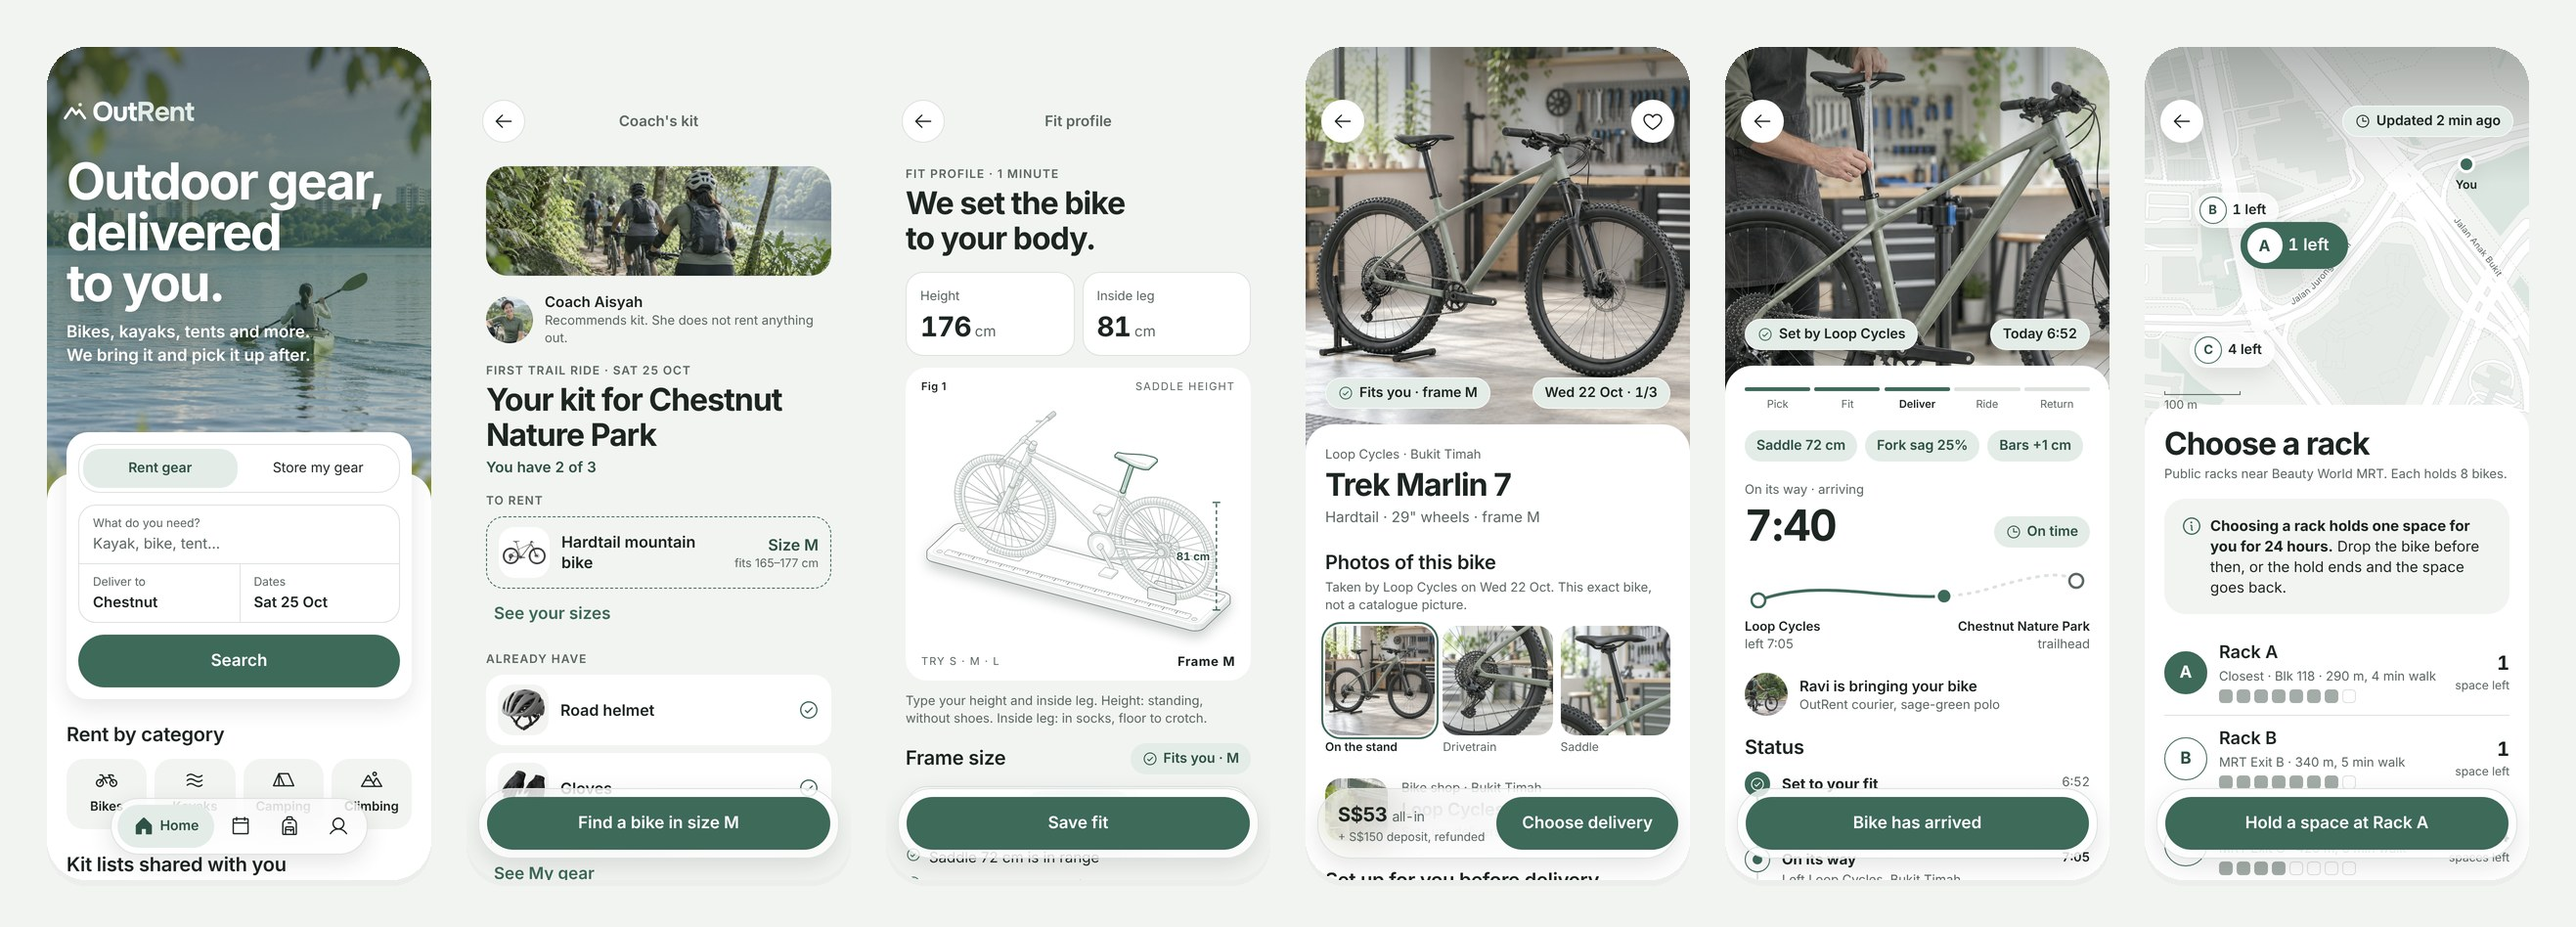
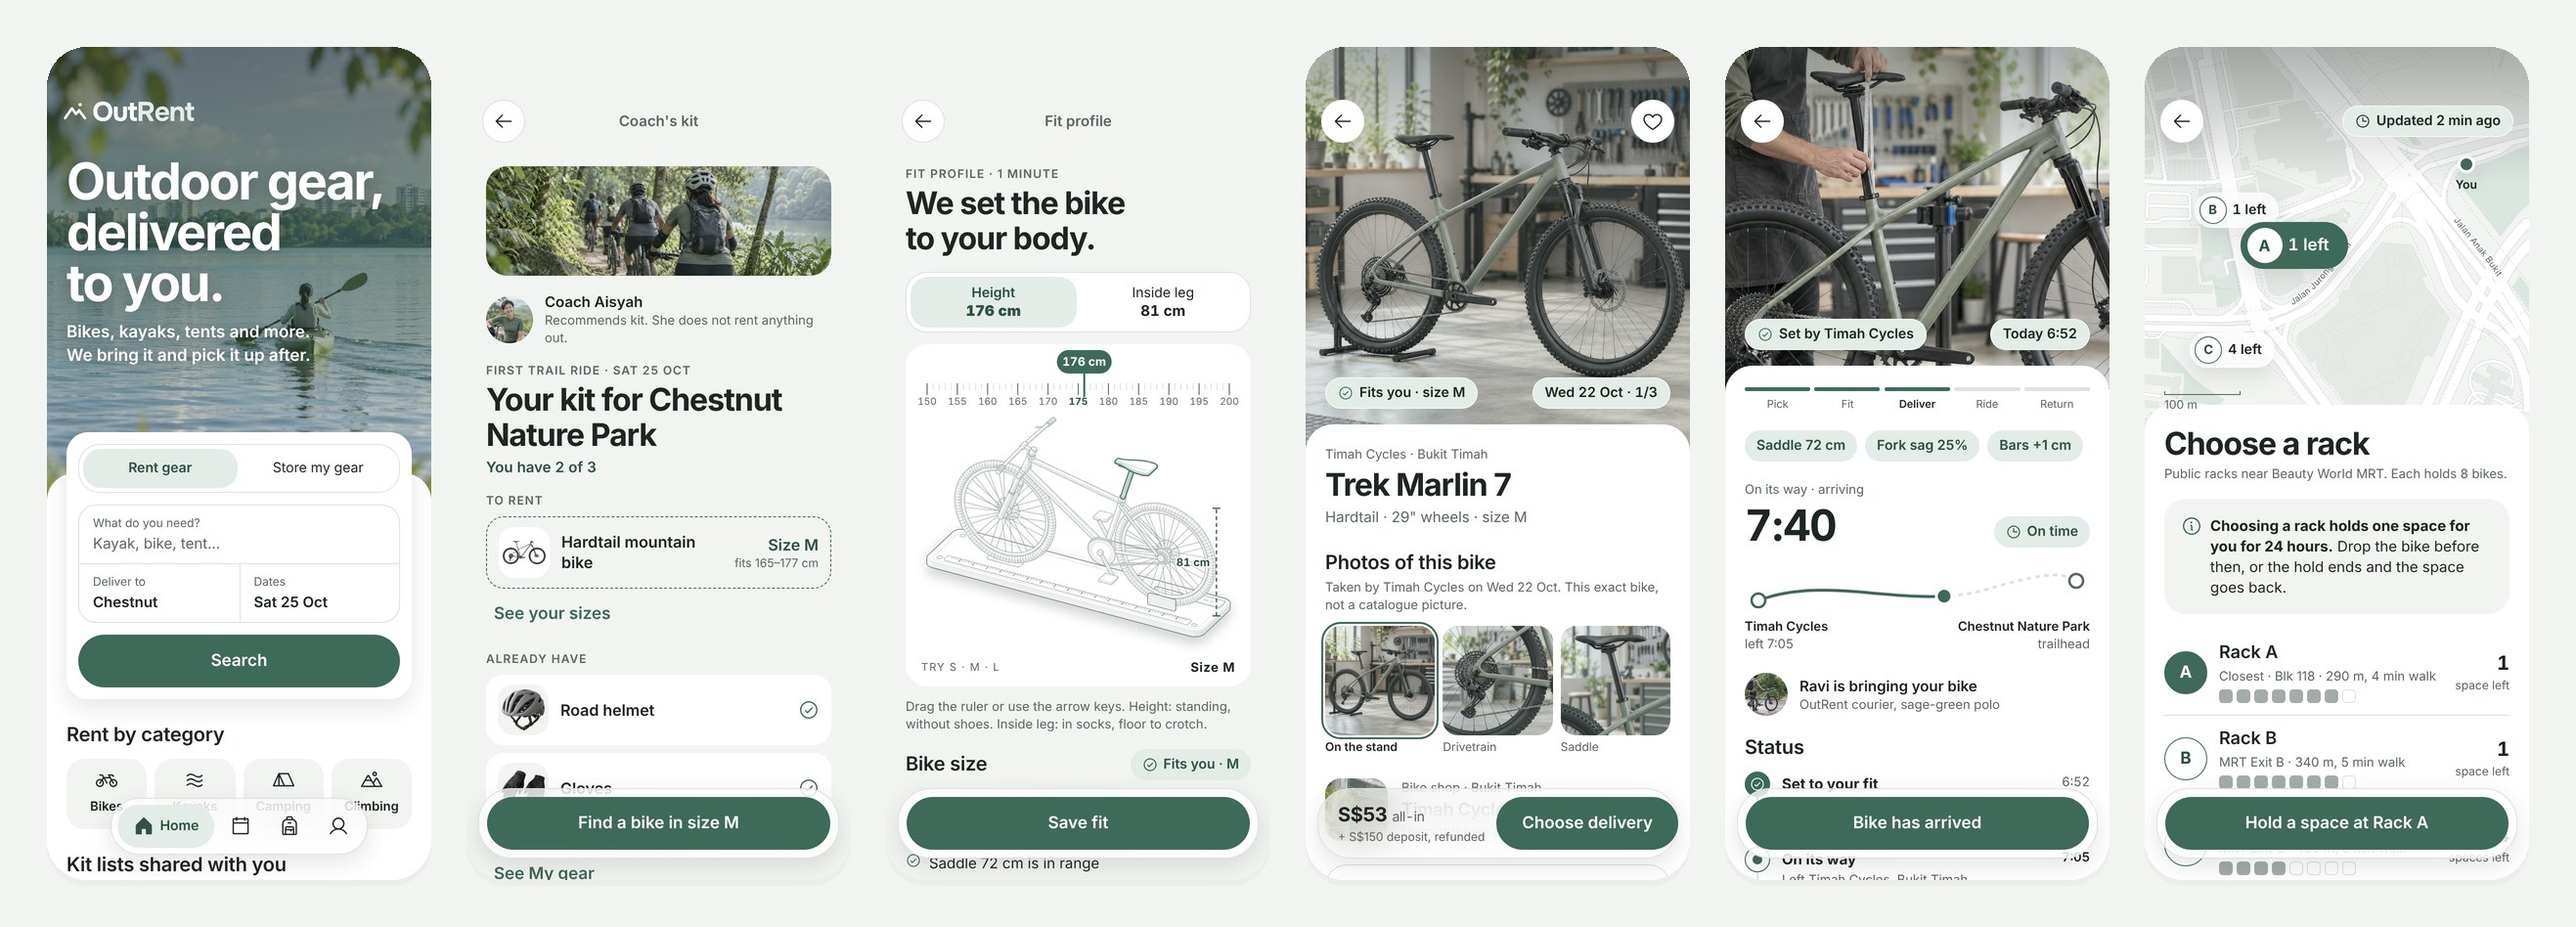
Lead pages: say size, not frame; drop unused ScrollTrigger; refresh README screens

diff --git a/work/haoyue/_shared/fit-page.js b/work/haoyue/_shared/fit-page.js
@@ -53,10 +53,10 @@
         </div>
         <div class="group">
           <div class="head">
-            <h2 class="t-title">Frame size</h2>
+            <h2 class="t-title">Bike size</h2>
             <span class="chip" id="size-chip" aria-live="polite"></span>
           </div>
-          <div class="segmented" role="radiogroup" aria-label="Try a frame size" id="size">
+          <div class="segmented" role="radiogroup" aria-label="Try a bike size" id="size">
             ${["S", "M", "L"].map((s) => `<button type="button" role="radio" aria-checked="false" data-size="${s}">${s}</button>`).join("")}
           </div>
           <ul class="verdicts" id="verdict" aria-live="polite"></ul>
@@ -77,7 +77,7 @@
         <div class="group">
           <h2 class="t-title">Set on every bike for you</h2>
           <div class="stats">
-            <div class="stat"><span class="v"><span id="stat-frame">M</span></span><span class="k">Frame</span></div>
+            <div class="stat"><span class="v"><span id="stat-frame">M</span></span><span class="k">Size</span></div>
             <div class="stat"><span class="v"><span id="stat-sag">25</span><small>%</small></span><span class="k">Fork sag</span></div>
             <div class="stat"><span class="v"><span id="stat-bars">+1</span><small> cm</small></span><span class="k">Bars</span></div>
           </div>
@@ -182,7 +182,7 @@
       else swapMoment(size);
     }
     fig.focus(model.leg != null ? "saddle" : null);
-    $("fig-readout").textContent = fit ? `Frame ${size}` : "Frame —";
+    $("fig-readout").textContent = fit ? `Size ${size}` : "Size —";
     $("fig-hint").textContent = complete() ? "Try S · M · L" : "Add height and inside leg";
 
     // Size control and verdict.

diff --git a/work/haoyue/05-listing-detail/direction-a/index.html b/work/haoyue/05-listing-detail/direction-a/index.html
@@ -62,7 +62,7 @@
           </button>
         </div>
         <a class="chip glass on-photo fit-chip" style="left: 20px" href="#" data-goes-to="03-fit-profile" data-enter="glass">
-          <svg class="icon is-sm" aria-hidden="true" style="color: var(--sage)"><use href="../../../../design/icons.svg#i-check-circle"/></svg>Fits you · frame M
+          <svg class="icon is-sm" aria-hidden="true" style="color: var(--sage)"><use href="../../../../design/icons.svg#i-check-circle"/></svg>Fits you · size M
         </a>
         <span class="chip glass on-photo num" style="right: 20px" id="photo-date" data-enter="glass">Wed 22 Oct · 1/3</span>
       </div>
@@ -71,7 +71,7 @@
         <div class="stack">
           <span class="t-foot">Timah Cycles · Bukit Timah</span>
           <h1 class="t-large">Trek Marlin 7</h1>
-          <span class="t-callout" style="color: var(--muted)">Hardtail · 29" wheels · frame M</span>
+          <span class="t-callout" style="color: var(--muted)">Hardtail · 29" wheels · size M</span>
         </div>
 
         <section class="group" aria-labelledby="photos-title">
